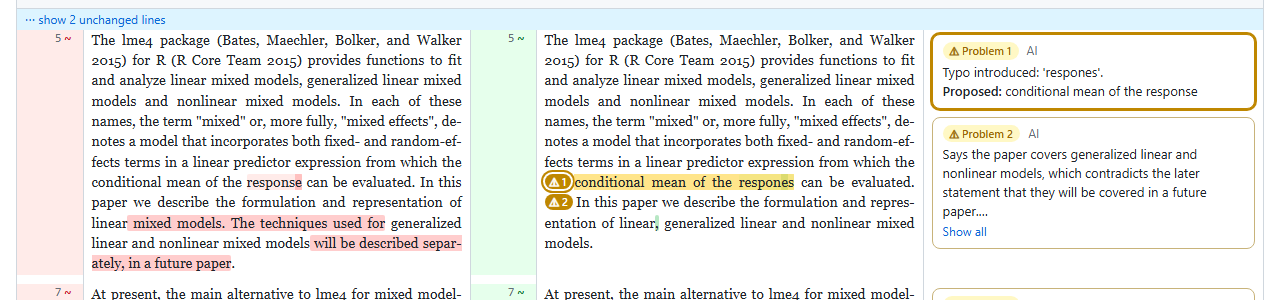
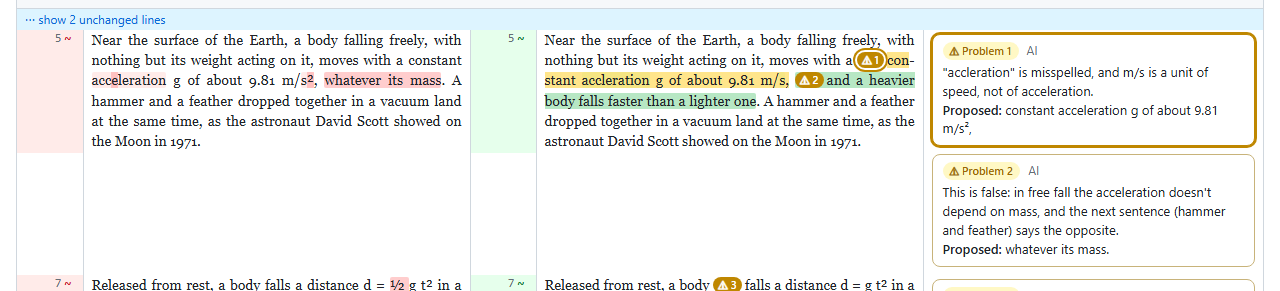
The README screenshots show a faulty revision of a text on free fall
The demo is now a short text on free fall written for it, in place of the
lme4 paper (its credit dropped with it). Its revision makes the fall
depend on mass, gives g in m/s, drops the half from d = 1/2 g t^2 and works
the example from it, makes air resistance fall with speed and brings in a
typo, for the AI to find; one comment removed and one added, so both
balloons show. The AI's assessment of it is kept for retakes.

Changed region(s): [[0.0312, 0.0619, 1.0, 0.9278], [0.4062, 0.9278, 0.9688, 1.0], [0.0625, 0.9588, 0.375, 1.0]]

diff --git a/docs/make_screenshots.py b/docs/make_screenshots.py
@@ -4,9 +4,8 @@
 
 The page is photographed by Playwright's Chromium (uv run playwright
 install chromium, once); the window by Pillow, which needs a desktop: the window
-shows on screen for a moment. The demo text is part of the introduction of
-the lme4 paper (CC BY 3.0), revised with made-up changes, authors and
-comments.
+shows on screen for a moment. The demo text, a short one on free fall, was
+written for it, and so were its revision, authors and comments.
 With --assess (e.g. claude), the AI named really assesses the demo's changes,
 once, its assessment kept in screenshot_assessment.json and used again, the AI
 not asked, until the demo text changes (or with --reassess): the report
@@ -41,7 +40,7 @@ from prosediff.render import assess_comparison
 DOCS = Path(__file__).parent
 # The demo sits in a temporary folder, whose path names the user: the report
 # and the window show this one instead.
-SHOWN_PATH = r"C:\Users\me\papers\lme4"
+SHOWN_PATH = r"C:\Users\me\notes\physics"
 # The AI's assessment of the demo, kept so the screenshots can be taken again
 # without asking it: the demo it assessed named by a hash of its text.
 CACHE = DOCS / "screenshot_assessment.json"
@@ -51,81 +50,55 @@ def note(text: str, author: str, date: str, cid: int) -> str:
     return f'[{text}]{{.comment-start id="{cid}" author="{author}" date="{date}T10:15:00Z"}}'
 
 
-# From Bates, Mächler, Bolker and Walker, "Fitting Linear Mixed-Effects Models
-# Using lme4", Journal of Statistical Software 67(1), 2015,
-# doi:10.18637/jss.v067.i01, CC BY 3.0: part of Section 1, shortened. The second
-# side is a made-up revision whose changes alter the meaning and bring in
-# errors (a claim the paper contradicts, the two packages' roles swapped, the
-# sleep restriction and the unit of time changed, an overclaim, a typo), for
-# the AI to find; its authors and comments are made up too.
-OLD = f"""# Fitting Linear Mixed-Effects Models Using lme4
+# A short text on free fall, written for the demo. The second side is a
+# made-up revision whose changes alter the meaning and bring in errors (the
+# fall made to depend on mass, the unit of g, the half dropped from the law of
+# distance and the example worked from it, air resistance made to fall with
+# speed, a typo), for the AI to find; one comment removed, one added.
+OLD = f"""# Free fall
 
-## Introduction
+## Galileo's law
 
-The lme4 package (Bates, Maechler, Bolker, and Walker 2015) for R (R Core Team 2015) \
-provides functions to fit and analyze linear mixed models, generalized linear mixed \
-models and nonlinear mixed models. In each of these names, the term "mixed" or, more \
-fully, "mixed effects", denotes a model that incorporates both fixed- and random-effects \
-terms in a linear predictor expression from which the conditional mean of the response \
-can be evaluated. In this paper we describe the formulation and representation of \
-linear mixed models. The techniques used for generalized linear and nonlinear mixed \
-models will be described separately, in a future paper.\
-{note("Say which version of lme4 this describes.", "Anna Keller", "2026-09-10", 1)}
+Near the surface of the Earth, a body falling freely, with nothing but its weight \
+acting on it, moves with a constant acceleration g of about 9.81 m/s², whatever its \
+mass. A hammer and a feather dropped together in a vacuum land at the same time, as \
+the astronaut David Scott showed on the Moon in 1971.\
+{note("Say that the Moon's g is about a sixth of the Earth's.", "Anna Keller", "2026-09-10", 1)}
 
-At present, the main alternative to lme4 for mixed modeling in R is the nlme package \
-(Pinheiro, Bates, DebRoy, Sarkar, and R Core Team 2015). The main features \
-distinguishing lme4 from nlme are (1) more efficient linear algebra tools, giving \
-improved performance on large problems; (2) simpler syntax and more efficient \
-implementation for fitting models with crossed random effects; (3) the implementation \
-of profile likelihood confidence intervals on random-effects parameters; and (4) the \
-ability to fit generalized linear mixed models. The main advantage of nlme relative to \
-lme4 is a user interface for fitting models with structure in the residuals (various \
-forms of heteroscedasticity and autocorrelation) and in the random-effects covariance \
-matrices (e.g., compound symmetric models).
+Released from rest, a body falls a distance d = ½ g t² in a time t and reaches a speed \
+v = g t. After 2 seconds a stone dropped from a bridge has fallen about 19.6 m and is \
+moving at about 19.6 m/s. The distance grows with the square of the time: in twice the \
+time, the body falls four times as far.
 
-## Example
+## Air resistance
 
-Throughout our discussion of lme4, we will work with a data set on the average reaction \
-time per day for subjects in a sleep deprivation study (Belenky et al. 2003). On day 0 \
-the subjects had their normal amount of sleep. Starting that night they were restricted \
-to 3 hours of sleep per night. The response variable, Reaction, represents average \
-reaction times in milliseconds (ms) on a series of tests given each Day to each Subject.
+In air the law holds only at low speeds. Air resistance grows with speed until it \
+equals the weight of the body; from then on the body stops accelerating and falls at \
+a constant terminal velocity, about 55 m/s for a skydiver lying flat.\
+{note("Is 55 m/s right for a skydiver?", "Tom Weber", "2026-09-20", 2)}
 """
 
-NEW = f"""# Fitting Linear Mixed-Effects Models Using lme4
+NEW = f"""# Free fall
 
-## Introduction
+## Galileo's law
 
-The lme4 package (Bates, Maechler, Bolker, and Walker 2015) for R (R Core Team 2015) \
-provides functions to fit and analyze linear mixed models, generalized linear mixed \
-models and nonlinear mixed models. In each of these names, the term "mixed" or, more \
-fully, "mixed effects", denotes a model that incorporates both fixed- and random-effects \
-terms in a linear predictor expression from which the conditional mean of the respones \
-can be evaluated. In this paper we describe the formulation and representation of \
-linear, generalized linear and nonlinear mixed models.\
-{note("Say which version of lme4 this describes.", "Anna Keller", "2026-09-10", 7)}
+Near the surface of the Earth, a body falling freely, with nothing but its weight \
+acting on it, moves with a constant accleration g of about 9.81 m/s, and a heavier \
+body falls faster than a lighter one. A hammer and a feather dropped together in a \
+vacuum land at the same time, as the astronaut David Scott showed on the Moon in 1971.\
+{note("Say that the Moon's g is about a sixth of the Earth's.", "Anna Keller", "2026-09-10", 7)}
 
-At present, the main alternative to lme4 for mixed modeling in R is the nlme package \
-(Pinheiro, Bates, DebRoy, Sarkar, and R Core Team 2015). The main features \
-distinguishing lme4 from nlme are (1) less efficient linear algebra tools, giving \
-improved performance on large problems; (2) simpler syntax and more efficient \
-implementation for fitting models with crossed random effects, which lme4 is now the \
-only package able to fit; (3) the implementation of profile likelihood confidence \
-intervals on random-effects parameters; and (4) the ability to fit generalized linear \
-mixed models. The main advantage of lme4 relative to nlme is a user interface for \
-fitting models with structure in the residuals (various forms of heteroscedasticity and \
-autocorrelation) and in the random-effects covariance matrices (e.g., compound symmetric \
-models). The techniques used for generalized linear and nonlinear mixed models will be \
-described separately, in a future paper.
+Released from rest, a body falls a distance d = g t² in a time t and reaches a speed \
+v = g t. The distance grows with the square of the time: in twice the time, the body \
+falls four times as far. After 2 seconds a stone dropped from a bridge has fallen about \
+39.2 m and is moving at about 19.6 m/s.
 
-## Example
+## Air resistance
 
-Throughout our discussion of lme4, we will work with a data set on the average reaction \
-time per day for subjects in a sleep deprivation study (Belenky et al. 2003). On day 0 \
-the subjects had their normal amount of sleep. Starting that night they were restricted \
-to 8 hours of sleep per night. The response variable, Reaction, represents average \
-reaction times in seconds (ms) on a series of tests given each Day to each \
-Subject.{note("Should we cite where the data can be found?", "Tom Weber", "2026-09-24", 8)}
+In air the law holds only at low speeds. Air resistance decreases with speed until it \
+equals the weight of the body; from then on the body stops accelerating and falls at \
+a constant terminal velocity, about 55 m/s for a skydiver lying \
+flat.{note("Add a figure of the speed against time?", "Tom Weber", "2026-09-24", 8)}
 """
 
 
@@ -135,8 +108,8 @@ def demo_repo(root: Path) -> tuple[Path, str]:
         cw.set_value("user", "name", "Anna Keller")
         cw.set_value("user", "email", "anna@example.org")
     for text, message in ((OLD, "First draft"), (NEW, "Revision after Tom's review")):
-        (root / "lme4_paper.md").write_text(text, encoding="utf-8", newline="\n")
-        repo.index.add(["lme4_paper.md"])
+        (root / "free_fall.md").write_text(text, encoding="utf-8", newline="\n")
+        repo.index.add(["free_fall.md"])
         repo.index.commit(message)
     return root, repo.head.commit.hexsha
 
@@ -273,7 +246,7 @@ if __name__ == "__main__":
     written = [DOCS / "screenshot_page.png", DOCS / "screenshot_window.png"]
     # a helper process of the window may still hold the demo folder: left behind
     with tempfile.TemporaryDirectory(ignore_cleanup_errors=True) as tmp:
-        repo, _ = demo_repo(Path(tmp) / "lme4")
+        repo, _ = demo_repo(Path(tmp) / "physics")
         page_file = report(repo, args.assess, args.reassess)  # one for every shot
         shoot_page(page_file, written[0])
         shoot_window(repo, written[1])

diff --git a/README.md b/README.md
@@ -47,7 +47,7 @@ change a tracked change, to accept or reject one by one in Word or
 LibreOffice, as if Track Changes had been on all along ([Tracked
 changes](#tracked-changes)).
 
-![An HTML report made by prosediff: the AI's verdict in the top bar; below, two versions of the introduction of the lme4 paper side by side, the second a revision with errors in it, changed words highlighted, and beside them a margin of cards for the comments and the problems the AI marked, one of them pinned, its passage highlighted in the text](https://raw.githubusercontent.com/raffaelemancuso/prosediff/master/docs/screenshot_page.png)
+![An HTML report made by prosediff: the AI's verdict in the top bar; below, two versions of a short text on free fall side by side, the second a revision with errors in it, changed words highlighted, and beside them a margin of cards for the comments and the problems the AI marked, one of them pinned, its passage highlighted in the text](https://raw.githubusercontent.com/raffaelemancuso/prosediff/master/docs/screenshot_page.png)
 
 ## Why prosediff
 
@@ -808,12 +808,3 @@ side-by-side HTML view of a diff it carries over from code to prose.
 
 prosediff was written with the help of [Claude Code](https://claude.com/claude-code),
 Anthropic's AI coding assistant.
-
-The screenshots show part of the introduction of Douglas Bates, Martin
-Mächler, Benjamin M. Bolker and Steven C. Walker, "Fitting Linear
-Mixed-Effects Models Using lme4", *Journal of Statistical Software* 67(1),
-2015, [doi:10.18637/jss.v067.i01](https://doi.org/10.18637/jss.v067.i01),
-licensed under [CC BY 3.0](https://creativecommons.org/licenses/by/3.0/).
-The text is shortened, and its second version is a revision made up for the
-demo: its changes, the errors they bring in, and the comments and their
-authors are not the paper's, nor its authors'.
